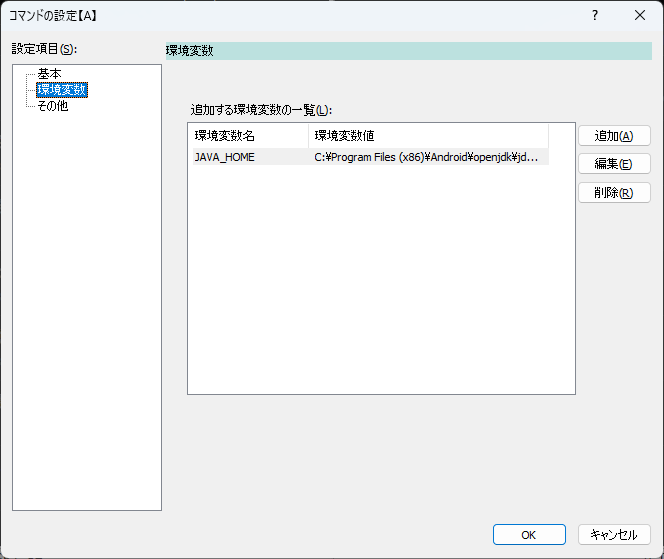
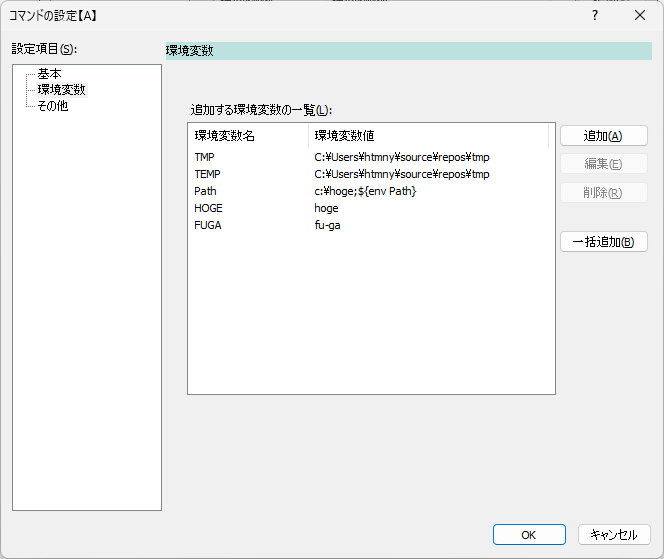
0.40.0

diff --git a/doc/help.md b/doc/help.md
@@ -905,6 +905,9 @@ Ctrl+A
 ![](../image/shellexec-envedit.png){ width=37% }
 - `削除`
   - クリックすると、リスト上で選択している変数を削除する
+- `一括追加`
+  - クリックすると、環境変数を一括で追加するための画面(下記)を表示する  
+![](../image/shellexec-envbulkadd.png){ width=40% }
 
 
 #### 通常コマンド その他

diff --git a/CHANGELOG.md b/CHANGELOG.md
@@ -2,6 +2,10 @@
 
 ## [Unreleased]
 
+なし
+
+## 0.40.0 - 2025-05-18
+
 ### Added
 
 - #80 「最近使ったファイル」を候補から削除する機能を追加
